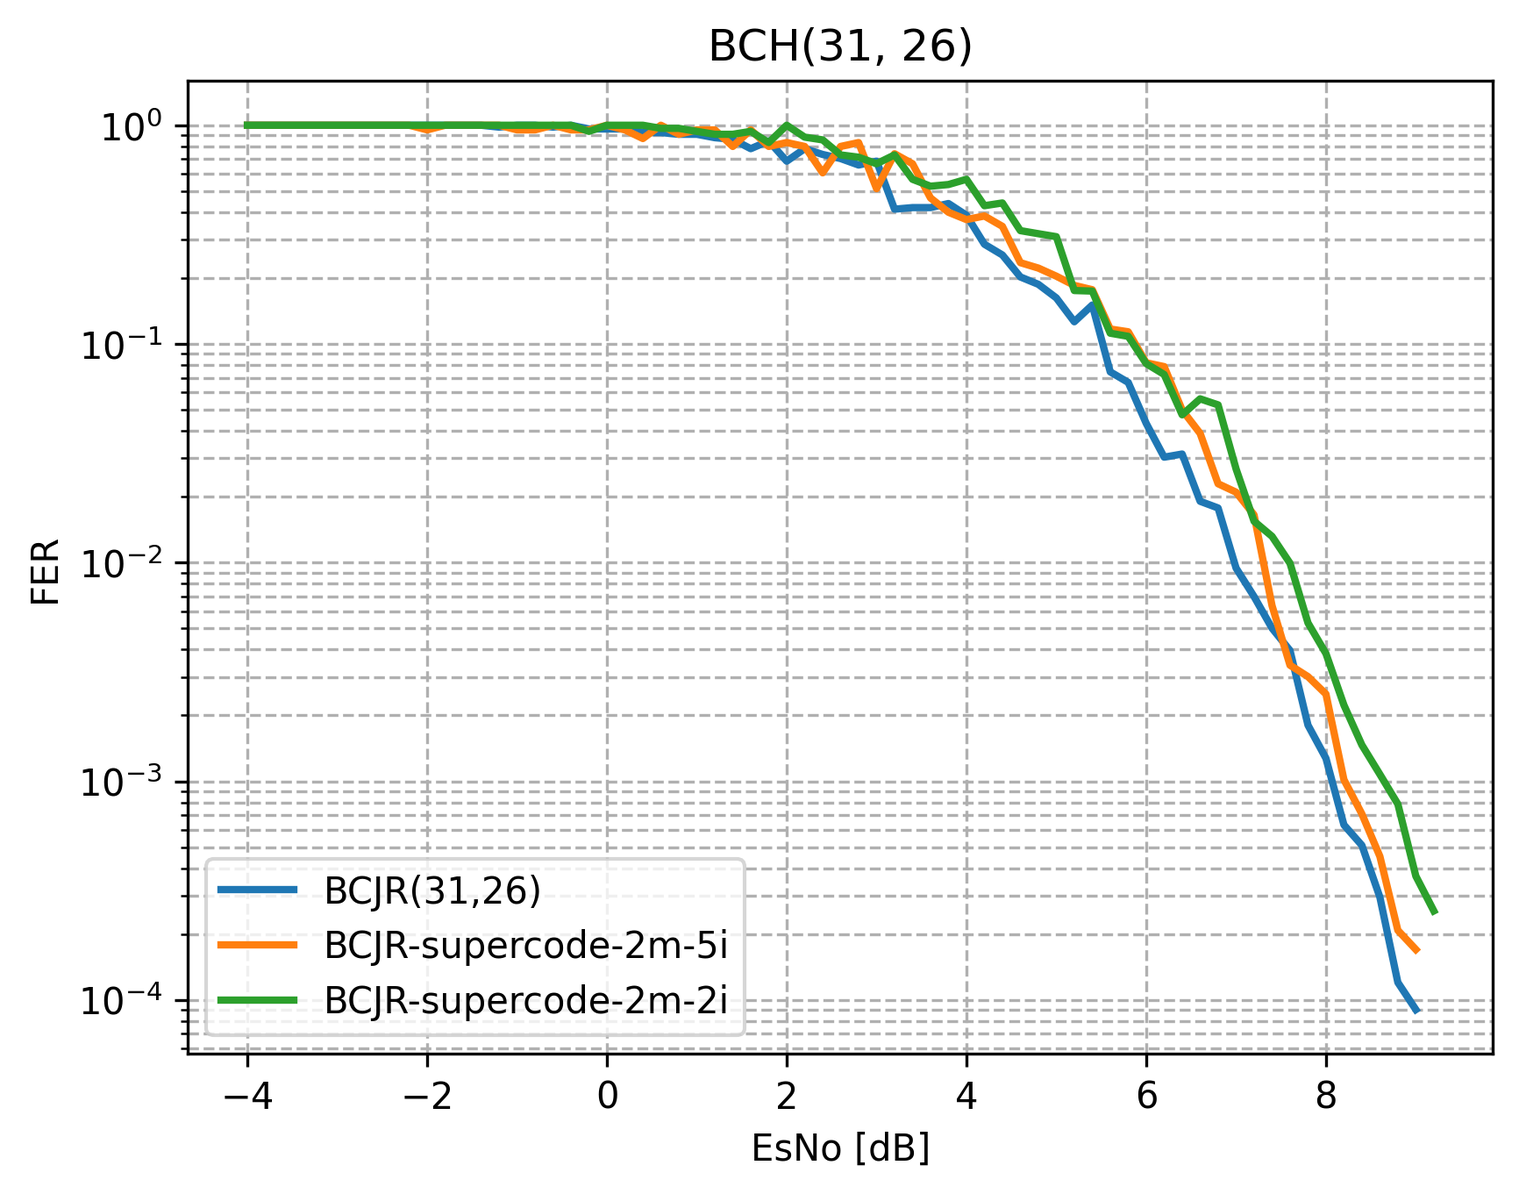
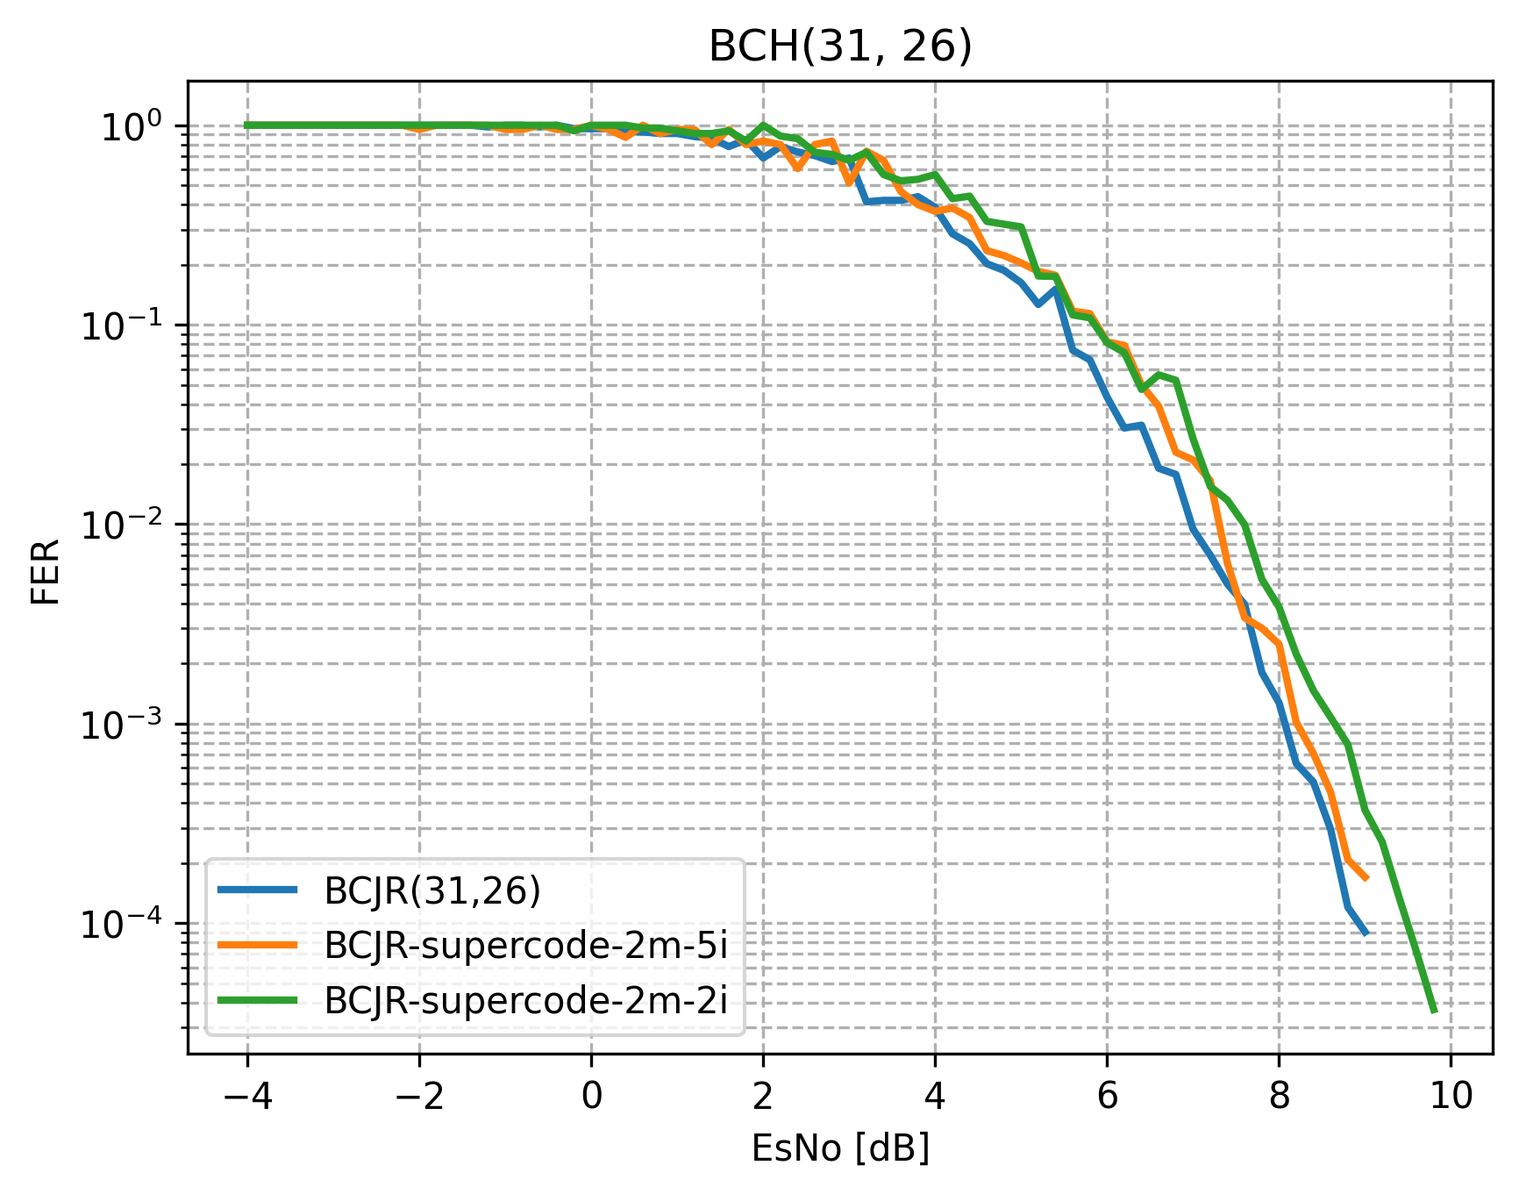
BCH(31,16) supercode

diff --git a/plot_hardcode.py b/plot_hardcode.py
@@ -59,7 +59,7 @@ esno_bch_31_26 = [-4, -3.8, -3.6, -3.4, -3.2, -3.0, -2.8, -2.6, -2.4, -2.2, -2.0
 fer_bch_31_26 = [1.0, 1.0, 1.0, 1.0, 1.0, 1.0, 1.0, 1.0, 1.0, 1.0, 1.0, 1.0, 1.0, 1.0, 0.9803921568627451, 1.0, 1.0, 0.9803921568627451, 1.0, 0.9615384615384616, 0.9615384615384616, 0.9615384615384616, 0.9259259259259259, 0.9259259259259259, 0.9090909090909091, 0.9090909090909091, 0.8771929824561403, 0.8620689655172413, 0.78125, 0.847457627118644, 0.684931506849315, 0.78125, 0.7352941176470589, 0.704225352112676, 0.6578947368421053, 0.684931506849315, 0.4132231404958678, 0.42016806722689076, 0.42016806722689076, 0.43859649122807015, 0.3875968992248062, 0.2857142857142857, 0.25510204081632654, 0.20242914979757085, 0.18726591760299627, 0.16233766233766234, 0.12626262626262627, 0.15060240963855423, 0.07451564828614009, 0.06666666666666667, 0.043327556325823226, 0.03033980582524272, 0.03136762860727729, 0.01906941266209001, 0.017768301350390904, 0.009437523593808984, 0.006992029086841001, 0.0050110242533573865, 0.003963221306277742, 0.00180583646344987, 0.0012724588995775437, 0.0006315364017581974, 0.0005092375695109283, 0.0002948999994102, 0.00012020299882441467, 9.033407347050864e-05]
 ber_bch_31_26 = [0.25225806451612903, 0.26387096774193547, 0.24838709677419357, 0.25806451612903225, 0.24967741935483873, 0.2335483870967742, 0.23548387096774193, 0.22, 0.23677419354838708, 0.21741935483870967, 0.1993548387096774, 0.2064516129032258, 0.21419354838709675, 0.1929032258064516, 0.17330803289057556, 0.17677419354838708, 0.1993548387096774, 0.1644528779253637, 0.18516129032258064, 0.1544665012406948, 0.151985111662531, 0.1674937965260546, 0.14277180406212664, 0.14336917562724014, 0.1343108504398827, 0.13255131964809383, 0.134125636672326, 0.13125695216907676, 0.11088709677419355, 0.1273920174958994, 0.09323906319045515, 0.10483870967741936, 0.09819734345351044, 0.10268059972739664, 0.0904074702886248, 0.08926204153778171, 0.05331911490269261, 0.05692599620493359, 0.05394415830848468, 0.055178268251273345, 0.04801200300075019, 0.03447004608294931, 0.03127057274522712, 0.025075094684602325, 0.02247191011235955, 0.01989945538332635, 0.014418377321603129, 0.017100660707345512, 0.008413057064564205, 0.007182795698924731, 0.004807961089059094, 0.0032688694018164735, 0.0033796090176872948, 0.002251420978814498, 0.0019143911777517938, 0.0010472606826678358, 0.0007668677062986904, 0.0005334316140670766, 0.00041422054943031887, 0.00018873903682508318, 0.00013463436098755944, 6.356108301566373e-05, 5.158083768594563e-05, 2.9870516069291227e-05, 1.2330501169730279e-05, 8.858567204849878e-06]
 
-plt.plot(esno_bch_31_26, fer_bch_31_26, label="BCJR(31,26)", alpha=1, linewidth=2)
+# plt.plot(esno_bch_31_26, fer_bch_31_26, label="BCJR(31,26)", alpha=1, linewidth=2)
 # plt.plot(esno_bch_31_26, gaussian_filter1d(fer_bch_31_26, sigma=1).tolist(), label="BCJR", alpha=1, linewidth=2)
 
 #----------------------BCH(31,26) supercode-----------------------------------------------------
@@ -69,9 +69,9 @@ ber_bch_31_26_supercode_2_matrix_5_iter = [0.7338709677419355, 0.738709677419354
 # plt.plot(esno_bch_31_26_supercode_2_matrix_5_iter, fer_bch_31_26_supercode_2_matrix_5_iter, label="BCJR-supercode-2m-5i", alpha=1, linewidth=2)
 # plt.plot(esno_bch_31_26_supercode_2_matrix_5_iter, gaussian_filter1d(fer_bch_31_26_supercode_2_matrix_5_iter, sigma=1).tolist(), label="BCJR-supercode-2m-5i", alpha=1, linewidth=2)
 
-esno_bch_31_26_supercode_2_matrix_2_iter = [-4, -3.8, -3.6, -3.4, -3.2, -3.0, -2.8, -2.6, -2.4, -2.2, -2.0, -1.8, -1.6, -1.4, -1.2, -1.0, -0.8, -0.6, -0.4, -0.2, 0.0, 0.2, 0.4, 0.6, 0.8, 1.0, 1.2, 1.4, 1.6, 1.8, 2.0, 2.2, 2.4, 2.6, 2.8, 3.0, 3.2, 3.4, 3.6, 3.8, 4.0, 4.2, 4.4, 4.6, 4.8, 5.0, 5.2, 5.4, 5.6, 5.8, 6.0, 6.2, 6.4, 6.6, 6.8, 7.0, 7.2, 7.4, 7.6, 7.8, 8.0, 8.2, 8.4, 8.6, 8.8, 9.0, 9.2]
-fer_bch_31_26_supercode_2_matrix_2_iter = [1.0, 1.0, 1.0, 1.0, 1.0, 1.0, 1.0, 1.0, 1.0, 1.0, 1.0, 1.0, 1.0, 1.0, 1.0, 1.0, 1.0, 1.0, 1.0, 0.9375, 1.0, 1.0, 1.0, 0.967741935483871, 0.967741935483871, 0.9375, 0.9090909090909091, 0.9090909090909091, 0.9375, 0.8333333333333334, 1.0, 0.8823529411764706, 0.8571428571428571, 0.7317073170731707, 0.7142857142857143, 0.6666666666666666, 0.7317073170731707, 0.5660377358490566, 0.5263157894736842, 0.5357142857142857, 0.5660377358490566, 0.42857142857142855, 0.4411764705882353, 0.32967032967032966, 0.3191489361702128, 0.30927835051546393, 0.17543859649122806, 0.1744186046511628, 0.11194029850746269, 0.10830324909747292, 0.08130081300813008, 0.07246376811594203, 0.04739336492890995, 0.056074766355140186, 0.05263157894736842, 0.02680965147453083, 0.015455950540958269, 0.013181019332161687, 0.009933774834437087, 0.005297545470598622, 0.003837298541826554, 0.0022294887039239, 0.0014642717688402968, 0.0010755001075500108, 0.0007862459377293217, 0.00036847794045396484, 0.0002552822144881166]
-ber_bch_31_26_supercode_2_matrix_2_iter = [0.721505376344086, 0.721505376344086, 0.743010752688172, 0.7365591397849462, 0.7591397849462366, 0.2623655913978495, 0.23010752688172043, 0.23333333333333334, 0.22795698924731184, 0.23118279569892472, 0.2118279569892473, 0.23010752688172043, 0.2075268817204301, 0.2096774193548387, 0.2064516129032258, 0.1903225806451613, 0.1967741935483871, 0.17741935483870966, 0.15376344086021507, 0.1844758064516129, 0.17096774193548386, 0.17526881720430107, 0.16559139784946236, 0.14672216441207078, 0.14776274713839752, 0.15625, 0.1270772238514174, 0.13782991202346043, 0.12096774193548387, 0.11559139784946236, 0.13225806451612904, 0.12144212523719165, 0.1032258064516129, 0.07474429583005507, 0.08218125960061444, 0.07598566308243727, 0.08025177025963809, 0.06877662811929397, 0.04867006225240521, 0.05587557603686636, 0.05295191722458917, 0.04331797235023042, 0.04933586337760911, 0.03403048564338887, 0.02916952642415923, 0.02926504822081809, 0.016034710431993962, 0.017066766691672917, 0.009749638902262879, 0.00978222895073949, 0.007518139697526008, 0.00638927847904005, 0.004025887988584824, 0.004401567681640036, 0.004640633842671194, 0.002248551413992908, 0.0011799704176430508, 0.0008362152049435909, 0.0006729331339457381, 0.00035886598349216476, 0.0002640721577170962, 0.00013185148249012313, 8.974568905795367e-05, 6.476129679871032e-05, 4.56529899326703e-05, 2.3376557512670887e-05, 1.4273844250948456e-05]
+esno_bch_31_26_supercode_2_matrix_2_iter = [-4, -3.8, -3.6, -3.4, -3.2, -3.0, -2.8, -2.6, -2.4, -2.2, -2.0, -1.8, -1.6, -1.4, -1.2, -1.0, -0.8, -0.6, -0.4, -0.2, 0.0, 0.2, 0.4, 0.6, 0.8, 1.0, 1.2, 1.4, 1.6, 1.8, 2.0, 2.2, 2.4, 2.6, 2.8, 3.0, 3.2, 3.4, 3.6, 3.8, 4.0, 4.2, 4.4, 4.6, 4.8, 5.0, 5.2, 5.4, 5.6, 5.8, 6.0, 6.2, 6.4, 6.6, 6.8, 7.0, 7.2, 7.4, 7.6, 7.8, 8.0, 8.2, 8.4, 8.6, 8.8, 9.0, 9.2, 9.4, 9.6, 9.8]
+fer_bch_31_26_supercode_2_matrix_2_iter = [1.0, 1.0, 1.0, 1.0, 1.0, 1.0, 1.0, 1.0, 1.0, 1.0, 1.0, 1.0, 1.0, 1.0, 1.0, 1.0, 1.0, 1.0, 1.0, 0.9375, 1.0, 1.0, 1.0, 0.967741935483871, 0.967741935483871, 0.9375, 0.9090909090909091, 0.9090909090909091, 0.9375, 0.8333333333333334, 1.0, 0.8823529411764706, 0.8571428571428571, 0.7317073170731707, 0.7142857142857143, 0.6666666666666666, 0.7317073170731707, 0.5660377358490566, 0.5263157894736842, 0.5357142857142857, 0.5660377358490566, 0.42857142857142855, 0.4411764705882353, 0.32967032967032966, 0.3191489361702128, 0.30927835051546393, 0.17543859649122806, 0.1744186046511628, 0.11194029850746269, 0.10830324909747292, 0.08130081300813008, 0.07246376811594203, 0.04739336492890995, 0.056074766355140186, 0.05263157894736842, 0.02680965147453083, 0.015455950540958269, 0.013181019332161687, 0.009933774834437087, 0.005297545470598622, 0.003837298541826554, 0.0022294887039239, 0.0014642717688402968, 0.0010755001075500108, 0.0007862459377293217, 0.00036847794045396484, 0.0002552822144881166, 0.00013317234276785398, 7.136213667752163e-05, 3.686101431681796e-05]
+ber_bch_31_26_supercode_2_matrix_2_iter = [0.721505376344086, 0.721505376344086, 0.743010752688172, 0.7365591397849462, 0.7591397849462366, 0.2623655913978495, 0.23010752688172043, 0.23333333333333334, 0.22795698924731184, 0.23118279569892472, 0.2118279569892473, 0.23010752688172043, 0.2075268817204301, 0.2096774193548387, 0.2064516129032258, 0.1903225806451613, 0.1967741935483871, 0.17741935483870966, 0.15376344086021507, 0.1844758064516129, 0.17096774193548386, 0.17526881720430107, 0.16559139784946236, 0.14672216441207078, 0.14776274713839752, 0.15625, 0.1270772238514174, 0.13782991202346043, 0.12096774193548387, 0.11559139784946236, 0.13225806451612904, 0.12144212523719165, 0.1032258064516129, 0.07474429583005507, 0.08218125960061444, 0.07598566308243727, 0.08025177025963809, 0.06877662811929397, 0.04867006225240521, 0.05587557603686636, 0.05295191722458917, 0.04331797235023042, 0.04933586337760911, 0.03403048564338887, 0.02916952642415923, 0.02926504822081809, 0.016034710431993962, 0.017066766691672917, 0.009749638902262879, 0.00978222895073949, 0.007518139697526008, 0.00638927847904005, 0.004025887988584824, 0.004401567681640036, 0.004640633842671194, 0.002248551413992908, 0.0011799704176430508, 0.0008362152049435909, 0.0006729331339457381, 0.00035886598349216476, 0.0002640721577170962, 0.00013185148249012313, 8.974568905795367e-05, 6.476129679871032e-05, 4.56529899326703e-05, 2.3376557512670887e-05, 1.4273844250948456e-05, 7.73258764458507e-06, 4.06687445581575e-06, 2.1403169603313654e-06]
 # plt.plot(esno_bch_31_26_supercode_2_matrix_2_iter, fer_bch_31_26_supercode_2_matrix_2_iter, label="BCJR-supercode-2m-2i", alpha=1, linewidth=2)
 # plt.plot(esno_bch_31_26_supercode_2_matrix_2_iter, gaussian_filter1d(fer_bch_31_26_supercode_2_matrix_2_iter, sigma=1).tolist(), label="BCJR-supercode-2m-2i", alpha=1, linewidth=2)
 
@@ -79,15 +79,22 @@ ber_bch_31_26_supercode_2_matrix_2_iter = [0.721505376344086, 0.721505376344086,
 esno_bch_31_21 = [-4, -3.8, -3.6, -3.4, -3.2, -3.0, -2.8, -2.6, -2.4, -2.2, -2.0, -1.8, -1.6, -1.4, -1.2, -1.0, -0.8, -0.6, -0.4, -0.2, 0.0, 0.2, 0.4, 0.6, 0.8, 1.0, 1.2, 1.4, 1.6, 1.8, 2.0, 2.2, 2.4, 2.6, 2.8, 3.0, 3.2, 3.4, 3.6, 3.8, 4.0, 4.2, 4.4, 4.6, 4.8, 5.0, 5.2, 5.4, 5.6, 5.8, 6.0]
 fer_bch_31_21 = [1.0, 1.0, 1.0, 1.0, 1.0, 1.0, 1.0, 1.0, 0.9803921568627451, 1.0, 0.9615384615384616, 0.9803921568627451, 0.9433962264150944, 0.8620689655172413, 0.8771929824561403, 0.9615384615384616, 0.9090909090909091, 0.8620689655172413, 0.8064516129032258, 0.7352941176470589, 0.7575757575757576, 0.7246376811594203, 0.746268656716418, 0.6097560975609756, 0.6944444444444444, 0.6024096385542169, 0.49019607843137253, 0.4065040650406504, 0.47619047619047616, 0.3597122302158273, 0.3472222222222222, 0.2777777777777778, 0.2777777777777778, 0.25510204081632654, 0.15625, 0.10683760683760683, 0.12345679012345678, 0.1366120218579235, 0.08417508417508418, 0.05656108597285068, 0.06821282401091405, 0.0297441998810232, 0.029994001199760048, 0.014898688915375448, 0.018214936247723135, 0.010034115994380895, 0.006994963626189144, 0.0053671103477887505, 0.00218435998252512, 0.0014583211806568279, 0.0011017826843833323]
 ber_bch_31_21 = [0.26129032258064516, 0.25870967741935486, 0.2606451612903226, 0.24387096774193548, 0.25548387096774194, 0.24967741935483873, 0.24451612903225808, 0.23935483870967741, 0.21948134092346616, 0.2167741935483871, 0.21029776674937967, 0.21062618595825428, 0.17772367620206939, 0.185761957730812, 0.1697792869269949, 0.22332506203473945, 0.19178885630498535, 0.17130144605116795, 0.1696149843912591, 0.15702087286527514, 0.16715542521994137, 0.14258999532491817, 0.15888300433317284, 0.12903225806451613, 0.13664874551971326, 0.11853867081228138, 0.1002530044275775, 0.0826121164437451, 0.09615975422427037, 0.07588767695521002, 0.07123655913978494, 0.05412186379928315, 0.05878136200716846, 0.053159973666886115, 0.02933467741935484, 0.020471464019851116, 0.02493030665073676, 0.026529173276925788, 0.016346258281742153, 0.010874324916070648, 0.012498349689741672, 0.005872080750705225, 0.005805290554792268, 0.0027971086931446805, 0.0034079558140901346, 0.0017543518932111113, 0.0012816578515082045, 0.0009764678181138244, 0.00038050141631082733, 0.00026437951726746364, 0.00018836929765263423]
-plt.plot(esno_bch_31_21, fer_bch_31_21, label="BCJR(31,21)", alpha=1, linewidth=2)
+# plt.plot(esno_bch_31_21, fer_bch_31_21, label="BCJR(31,21)", alpha=1, linewidth=2)
 # plt.plot(esno_bch_31_21, gaussian_filter1d(fer_bch_31_21, sigma=0.6).tolist(), label="BCJR", alpha=1, linewidth=2)
 
 #-----------------------BCH(31,16) original----------------------------------------------------------------
-esno_bch_31_16 = [-4, -3.8, -3.6, -3.4, -3.2, -3.0, -2.8, -2.6, -2.4, -2.2, -2.0, -1.8, -1.6, -1.4, -1.2, -1.0, -0.8, -0.6, -0.4, -0.2, 0.0, 0.2, 0.4, 0.6, 0.8, 1.0, 1.2, 1.4, 1.6, 1.8, 2.0, 2.2, 2.4, 2.6, 2.8, 3.0, 3.2, 3.4, 3.6, 3.8, 4.0, 4.2, 4.4, 4.6]
-fer_bch_31_16 = [0.9803921568627451, 1.0, 1.0, 0.9803921568627451, 0.9803921568627451, 0.9090909090909091, 0.8928571428571429, 0.9259259259259259, 0.847457627118644, 0.8928571428571429, 0.7575757575757576, 0.6578947368421053, 0.6578947368421053, 0.7692307692307693, 0.6172839506172839, 0.6756756756756757, 0.625, 0.49504950495049505, 0.45871559633027525, 0.33112582781456956, 0.47619047619047616, 0.3472222222222222, 0.3048780487804878, 0.2617801047120419, 0.2066115702479339, 0.20491803278688525, 0.16722408026755853, 0.12690355329949238, 0.1358695652173913, 0.11494252873563218, 0.08116883116883117, 0.052083333333333336, 0.044682752457551385, 0.03875968992248062, 0.02328830926874709, 0.025303643724696356, 0.012768130745658836, 0.00929195316855603, 0.005719514985129261, 0.0039575747981636855, 0.003491132523390588, 0.0026093309675399227, 0.0010931829113647296, 0.0008504269143109841]
-ber_bch_31_16 = [0.25743200506008856, 0.24774193548387097, 0.2535483870967742, 0.24161922833649588, 0.2245414294750158, 0.224633431085044, 0.21831797235023043, 0.2084826762246117, 0.2192454893384363, 0.228110599078341, 0.17595307917888564, 0.16468590831918506, 0.16893039049235992, 0.18858560794044665, 0.1461569095977698, 0.14559721011333915, 0.1588709677419355, 0.1267965506228042, 0.11837821840781296, 0.0826746421704764, 0.11582181259600616, 0.08781362007168458, 0.07631785995279307, 0.062151663570342845, 0.05291922154092242, 0.05222104706504495, 0.04498867191714316, 0.030702472572457836, 0.03357293127629734, 0.030626622172784574, 0.020684960201089234, 0.013004032258064516, 0.01109861915881115, 0.00975243810952738, 0.0058145649593581445, 0.006203473945409429, 0.003130251408613134, 0.002278027228420188, 0.001442793780119704, 0.000947264677495953, 0.0008468811798676523, 0.000622872553541788, 0.0002616586194298804, 0.00020081048428246463]
+esno_bch_31_16 = [-4, -3.8, -3.6, -3.4, -3.2, -3.0, -2.8, -2.6, -2.4, -2.2, -2.0, -1.8, -1.6, -1.4, -1.2, -1.0, -0.8, -0.6, -0.4, -0.2, 0.0, 0.2, 0.4, 0.6, 0.8, 1.0, 1.2, 1.4, 1.6, 1.8, 2.0, 2.2, 2.4, 2.6, 2.8, 3.0, 3.2, 3.4, 3.6, 3.8, 4.0, 4.2, 4.4, 4.6, 4.8, 5.0, 5.2]
+fer_bch_31_16 = [0.9803921568627451, 1.0, 1.0, 0.9803921568627451, 0.9803921568627451, 0.9090909090909091, 0.8928571428571429, 0.9259259259259259, 0.847457627118644, 0.8928571428571429, 0.7575757575757576, 0.6578947368421053, 0.6578947368421053, 0.7692307692307693, 0.6172839506172839, 0.6756756756756757, 0.625, 0.49504950495049505, 0.45871559633027525, 0.33112582781456956, 0.47619047619047616, 0.3472222222222222, 0.3048780487804878, 0.2617801047120419, 0.2066115702479339, 0.20491803278688525, 0.16722408026755853, 0.12690355329949238, 0.1358695652173913, 0.11494252873563218, 0.08116883116883117, 0.052083333333333336, 0.044682752457551385, 0.03875968992248062, 0.02328830926874709, 0.025303643724696356, 0.012768130745658836, 0.00929195316855603, 0.005719514985129261, 0.0039575747981636855, 0.003491132523390588, 0.0026093309675399227, 0.0010931829113647296, 0.0008504269143109841, 0.0005133101317153798, 0.00031656990180001644, 0.00021579815104144187]
+ber_bch_31_16 = [0.25743200506008856, 0.24774193548387097, 0.2535483870967742, 0.24161922833649588, 0.2245414294750158, 0.224633431085044, 0.21831797235023043, 0.2084826762246117, 0.2192454893384363, 0.228110599078341, 0.17595307917888564, 0.16468590831918506, 0.16893039049235992, 0.18858560794044665, 0.1461569095977698, 0.14559721011333915, 0.1588709677419355, 0.1267965506228042, 0.11837821840781296, 0.0826746421704764, 0.11582181259600616, 0.08781362007168458, 0.07631785995279307, 0.062151663570342845, 0.05291922154092242, 0.05222104706504495, 0.04498867191714316, 0.030702472572457836, 0.03357293127629734, 0.030626622172784574, 0.020684960201089234, 0.013004032258064516, 0.01109861915881115, 0.00975243810952738, 0.0058145649593581445, 0.006203473945409429, 0.003130251408613134, 0.002278027228420188, 0.001442793780119704, 0.000947264677495953, 0.0008468811798676523, 0.000622872553541788, 0.0002616586194298804, 0.00020081048428246463, 0.00012186976030403855, 7.373015132245545e-05, 5.067775934134506e-05]
 plt.plot(esno_bch_31_16, fer_bch_31_16, label="BCJR(31,16)", alpha=1, linewidth=2)
 # plt.plot(esno_bch_31_16, gaussian_filter1d(fer_bch_31_16, sigma=0.6).tolist(), label="BCJR", alpha=1, linewidth=2)
+
+#-----------------------BCH(31,16) supercode----------------------------------------------------------------
+esno_bch_31_16_supercode_2_matrix_2_iter = [-4, -3.8, -3.6, -3.4, -3.2, -3.0, -2.8, -2.6, -2.4, -2.2, -2.0, -1.8, -1.6, -1.4, -1.2, -1.0, -0.8, -0.6, -0.4, -0.2, 0.0, 0.2, 0.4, 0.6, 0.8, 1.0, 1.2, 1.4, 1.6, 1.8, 2.0, 2.2, 2.4, 2.6, 2.8, 3.0, 3.2, 3.4, 3.6, 3.8, 4.0, 4.2, 4.4, 4.6, 4.8, 5.0, 5.2, 5.4, 5.6, 5.8]
+fer_bch_31_16_supercode_2_matrix_2_iter = [1.0, 1.0, 1.0, 1.0, 1.0, 1.0, 0.9433962264150944, 1.0, 0.9615384615384616, 0.9615384615384616, 0.9615384615384616, 0.9259259259259259, 0.8333333333333334, 0.9433962264150944, 0.8771929824561403, 0.8333333333333334, 0.847457627118644, 0.78125, 0.7575757575757576, 0.6756756756756757, 0.7246376811594203, 0.49019607843137253, 0.6493506493506493, 0.4716981132075472, 0.5, 0.4065040650406504, 0.3937007874015748, 0.3968253968253968, 0.3246753246753247, 0.25906735751295334, 0.3067484662576687, 0.23148148148148148, 0.16666666666666666, 0.10683760683760683, 0.12853470437017994, 0.16286644951140064, 0.10204081632653061, 0.06631299734748011, 0.07418397626112759, 0.04668534080298786, 0.031387319522912745, 0.025906735751295335, 0.011614401858304297, 0.00963020030816641, 0.00737571913261543, 0.004857198367981349, 0.003587315253264457, 0.002336885399140026, 0.0014092446448703494, 0.0010385510136257893]
+ber_bch_31_16_supercode_2_matrix_2_iter = [0.7109677419354838, 0.752258064516129, 0.7296774193548388, 0.724516129032258, 0.6780645161290323, 0.44, 0.2702373706634206, 0.33096774193548384, 0.25496277915632753, 0.2487593052109181, 0.25868486352357317, 0.25925925925925924, 0.22956989247311826, 0.24528301886792453, 0.24448217317487267, 0.21774193548387097, 0.2241662110442865, 0.1905241935483871, 0.18621700879765396, 0.16477768090671316, 0.14118747078073868, 0.1008855154965212, 0.11897779639715124, 0.0934266585514303, 0.09387096774193548, 0.07867820613690008, 0.07264414528829058, 0.07782898105478751, 0.053414327607876, 0.044960722045796424, 0.044725905402731046, 0.039874551971326166, 0.02763440860215054, 0.0155776123518059, 0.018658263537606766, 0.02542818114952191, 0.015404871626069783, 0.009198254470779498, 0.010529338566095529, 0.006204632390590645, 0.0036652289249336817, 0.0033595186361357176, 0.0013937282229965157, 0.0009257418360753516, 0.000737571913261543, 0.00047631880769881613, 0.000333273159012956, 0.0002140888559212153, 0.00013546932392624652, 8.911437729821288e-05]
+plt.plot(esno_bch_31_16_supercode_2_matrix_2_iter, fer_bch_31_16_supercode_2_matrix_2_iter, label="BCJR(31,16) supercode(2,2)", alpha=1, linewidth=2)
+# plt.plot(esno_bch_31_16_supercode_2_matrix_2_iter, gaussian_filter1d(fer_bch_31_16_supercode_2_matrix_2_iter, sigma=0.6).tolist(), label="BCJR(31,16) supercode(2,2)", alpha=1, linewidth=2)
 
 plt.yscale("log")  # Логарифмическая шкала по Y
 plt.xlabel("EsNo [dB]")
@@ -95,4 +102,4 @@ plt.ylabel("FER")
 plt.title("BCH(31, 26)")
 plt.legend()
 plt.grid(True, which="both", linestyle="--")
-plt.savefig('modeling_results/BCH(31,26-21-16).png', dpi=300, bbox_inches='tight')
+plt.savefig('modeling_results/BCH(31,16)_BCJR+BCJR_supercode(2,2).png', dpi=300, bbox_inches='tight')

diff --git a/simulation/simulate_awgn_supercode.py b/simulation/simulate_awgn_supercode.py
@@ -13,25 +13,26 @@ from trellis_repo import get_trellis
 
 if __name__ == "__main__":
 
-    ESNO_START = 9.4
-    ESNO_END = 9.8
+    ESNO_START = 6
+    ESNO_END = 6.6
     ESNO_STEP = 0.2
-    WRONG_DECODING_NUMBER = 30
+    WRONG_DECODING_NUMBER = 50
     SUPERCODE_ITERATIONS = 2
 
     # trellis1 = Trellis("../matricies/BCH_MATRIX_N_15_K_7_HALF_1.csv")
     # trellis1.build_trellis()
     # trellis2 = Trellis("../matricies/BCH_MATRIX_N_15_K_7_HALF_2.csv")
     # trellis2.build_trellis()
-    trellis1 = get_trellis('/home/k111/BCJR/simulation/BCH_MATRIX_N_31_K_26_half_1')
-    trellis2 = get_trellis('/home/k111/BCJR/simulation/BCH_MATRIX_N_31_K_26_half_2')
+    trellis1 = get_trellis('/home/k111/BCJR/simulation/trellis_binaries/BCH_MATRIX_N_31_K_16_half_1')
+    trellis2 = get_trellis('/home/k111/BCJR/simulation/trellis_binaries/BCH_MATRIX_N_31_K_16_half_2')
 
     N = len(trellis1.vex) - 1
 
     # Задаем нулевое кодовое слово
     # codeword_initial = [0] * N
     # codeword_initial = [1, 0, 1, 0, 1, 0, 0, 1, 0, 1, 1, 0, 0, 0, 0] # BCH(15, 7)
-    codeword_initial = [0, 1, 0, 1, 1, 1, 1, 1, 1, 0, 0, 1, 1, 0, 0, 0, 0, 0, 0, 0, 0, 1, 1, 0, 0, 0, 1, 1, 0, 1, 0] # BCH(31, 26)
+    # codeword_initial = [0, 1, 0, 1, 1, 1, 1, 1, 1, 0, 0, 1, 1, 0, 0, 0, 0, 0, 0, 0, 0, 1, 1, 0, 0, 0, 1, 1, 0, 1, 0] # BCH(31, 26)
+    codeword_initial = [1, 1, 1, 0, 1, 1, 1, 1, 0, 1, 0, 1, 0, 1, 1, 1, 1, 1, 1, 1, 0, 1, 0, 0, 0, 1, 0, 1, 1, 0, 0]   # BCH(31, 16)
 
     codeword_modulated = bpsk_modulation(codeword_initial)
 
@@ -52,7 +53,7 @@ if __name__ == "__main__":
 
     decoder1 = BCJRDecoder(trellis1.edg)
     decoder2 = BCJRDecoder(trellis2.edg)
-    TITLE = f'Decoding SUPERCODE, WRONG_DECODING_NUMBER = {WRONG_DECODING_NUMBER}, ESNO_END = {ESNO_END}, iter: {SUPERCODE_ITERATIONS}, matrix: 2, BCH(31,26)'
+    TITLE = f'Decoding SUPERCODE, WRONG_DECODING_NUMBER = {WRONG_DECODING_NUMBER}, ESNO_END = {ESNO_END}, iter: {SUPERCODE_ITERATIONS}, matrix: 2, BCH(31,16)'
     print('\n',TITLE,'\n')
     for (i, esno) in enumerate(esno_array):
         tests_passed, wrong_decoding, errors_at_all = 0, 0, 0

diff --git a/simulation/trellis_repo.py b/simulation/trellis_repo.py
@@ -2,8 +2,8 @@ import pickle
 from trellis4decoder import Trellis
 
 
-FILE_PATH = "/home/k111/BCJR/matricies/BCH_MATRIX_N_31_K_26_half_2.csv"
-TRELLIS_NAME = "BCH_MATRIX_N_31_K_26_half_2"
+FILE_PATH = "/home/k111/BCJR/matricies/BCH_MATRIX_N_31_K_16_half_2.csv"
+TRELLIS_NAME = "BCH_MATRIX_N_31_K_16_half_2"
 
 
 def save_trellis(file_path, trellis_name):

diff --git a/simulation/simulate_awgn.py b/simulation/simulate_awgn.py
@@ -10,8 +10,8 @@ from BCJR import BCJRDecoder
 import matplotlib.pyplot as plt
 from scipy.ndimage import gaussian_filter1d
 
-ESNO_START = 4.8
-ESNO_END = 5.2
+ESNO_START = 5.4
+ESNO_END = 5.8
 ESNO_STEP = 0.2
 WRONG_DECODING_NUMBER = 50
 
